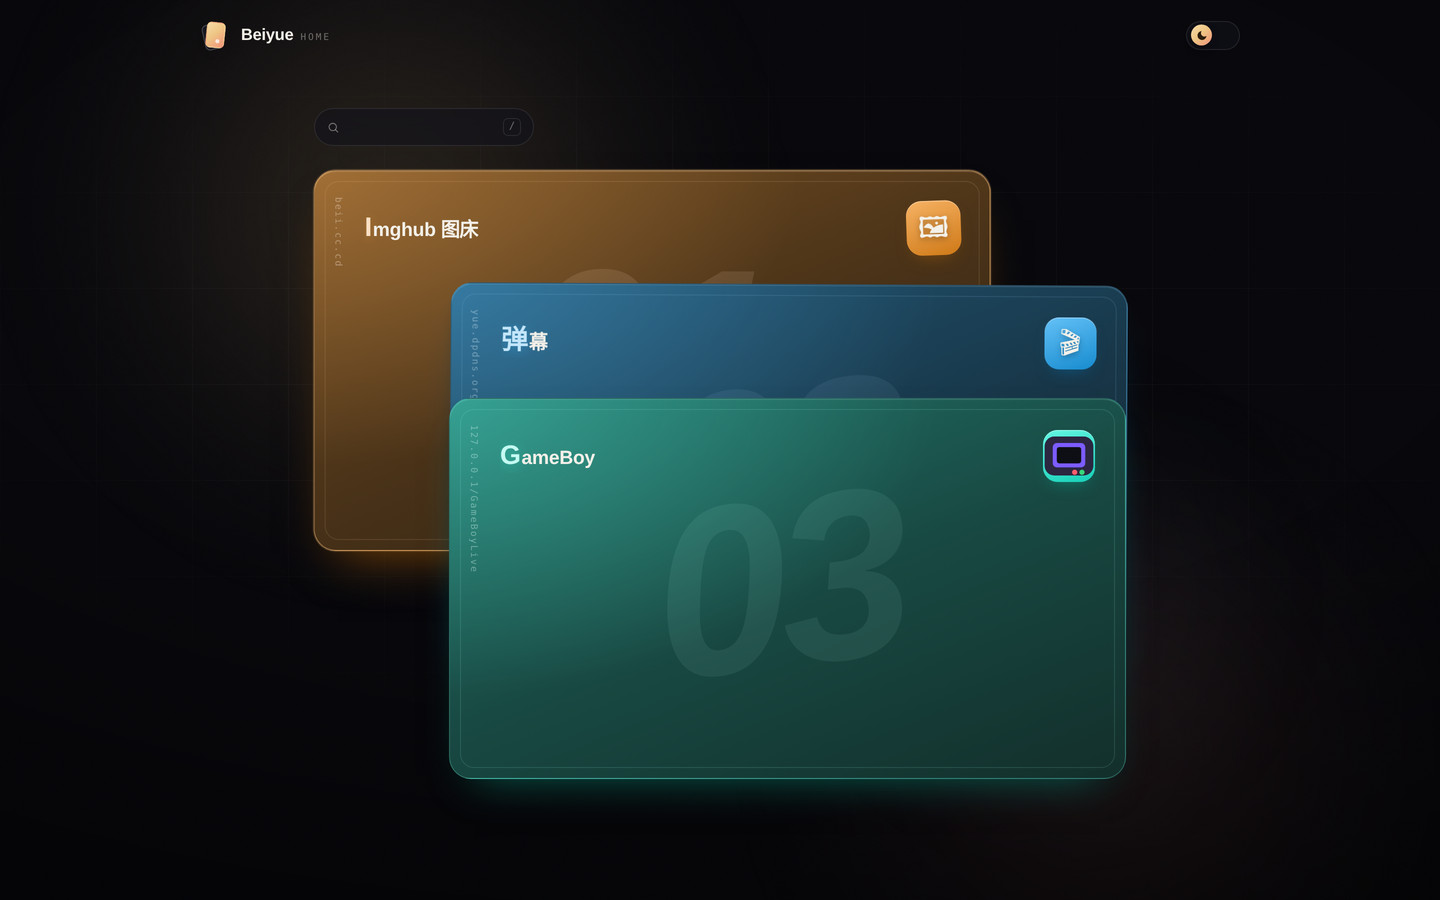
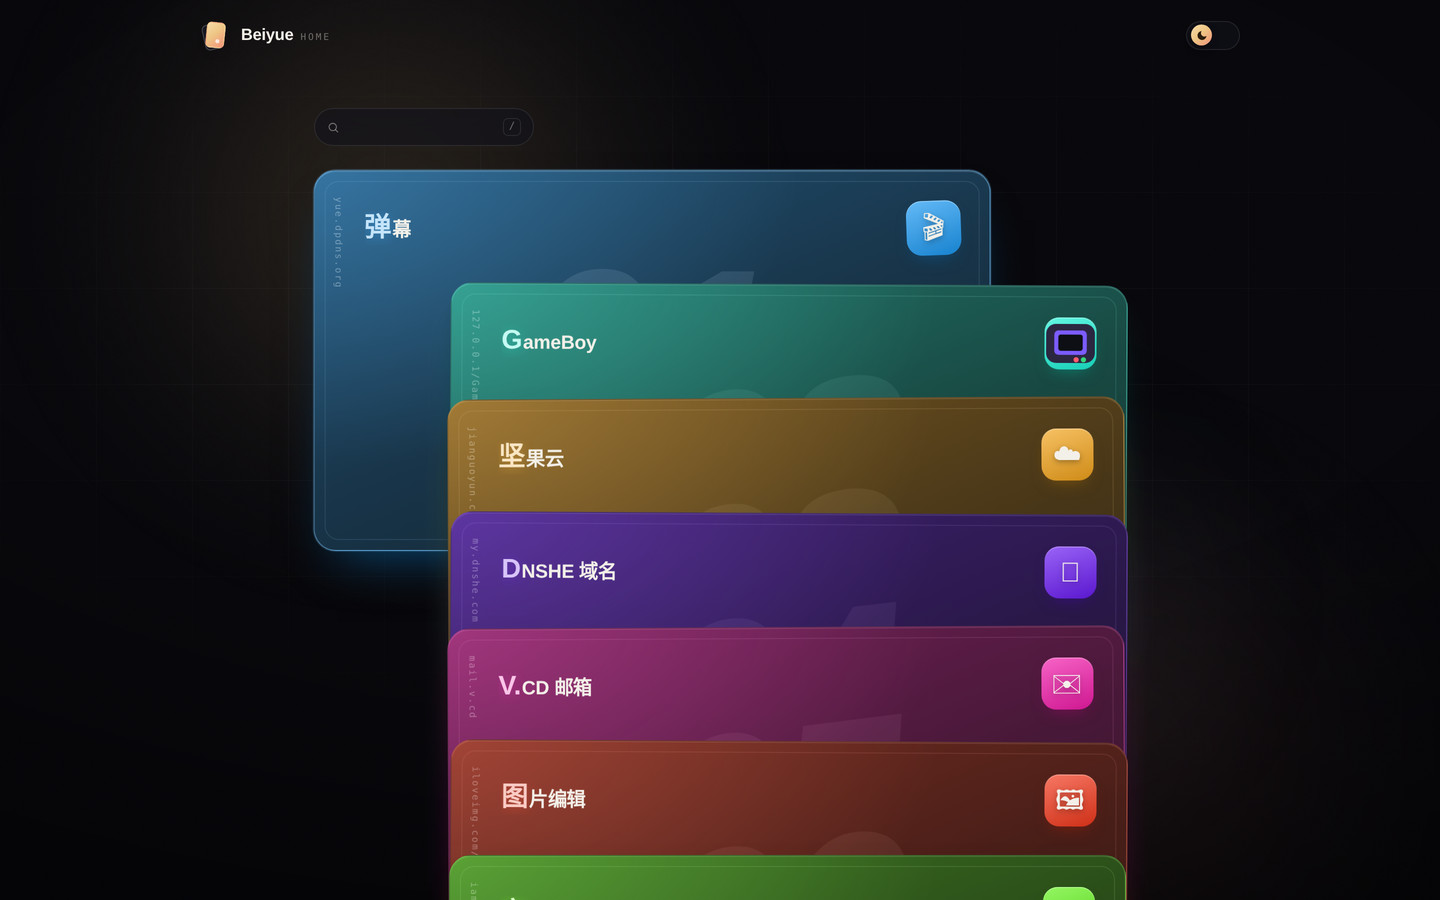
content: replace image host with five new site cards

diff --git a/src/data/site.js b/src/data/site.js
@@ -28,17 +28,11 @@ export const site = {
 /** 12 个主色相轮转：新增卡片自动取色，不需要手动配 */
 const HUES = [32, 202, 344, 164, 268, 12, 190, 96, 222, 316, 48, 148]
 
-/** 示例牌：把 url 换成你自己的项目地址即可 */
+/**
+ * 卡片清单：顺序就是牌堆里从上到下的顺序，最后一张会整张露出。
+ * hue 不写就按 HUES 顺序自动分配。
+ */
 const SAMPLES = [
-  {
-    id: 'imghub-image-host',
-    name: 'Imghub 图床',
-    en: 'Image Host',
-    tag: '工具',
-    desc: '拖进图片，马上拿到一个能直接用的链接。',
-    url: 'https://beii.cc.cd',
-    emoji: '🖼'
-  },
   {
     id: 'danmaku',
     name: '弹幕',
@@ -46,7 +40,8 @@ const SAMPLES = [
     tag: '趣味',
     desc: '打开就能发，屏幕上飘过的都是别人的碎碎念。',
     url: 'https://yue.dpdns.org',
-    emoji: '🎬'
+    emoji: '🎬',
+    hue: 205
   },
   {
     id: 'gameboy',
@@ -58,8 +53,57 @@ const SAMPLES = [
     emoji: '🕹',
     /* 用模拟器自己的图标，和参考站一致 */
     icon: `${import.meta.env.BASE_URL}icons/gameboy.svg`,
-    /* 与参考站 GameBoy 那张牌一致：青绿 */
     hue: 172
+  },
+  {
+    id: 'jianguoyun',
+    name: '坚果云',
+    en: 'Nutstore',
+    tag: '工具',
+    desc: '跨设备同步文件，改完自动上传。',
+    url: 'https://www.jianguoyun.com',
+    emoji: '☁',
+    hue: 38
+  },
+  {
+    id: 'dnshe',
+    name: 'DNSHE 域名',
+    en: 'DNSHE',
+    tag: '工具',
+    desc: '解析、转发、记录，一处管好域名。',
+    url: 'https://my.dnshe.com/',
+    emoji: '🌐',
+    hue: 262
+  },
+  {
+    id: 'vcd-mail',
+    name: 'V.CD 邮箱',
+    en: 'V.CD Mail',
+    tag: '工具',
+    desc: '挂在 v.cd 域名上的一个邮箱。',
+    url: 'https://mail.v.cd',
+    emoji: '✉',
+    hue: 320
+  },
+  {
+    id: 'iloveimg',
+    name: '图片编辑',
+    en: 'iLoveIMG',
+    tag: '工具',
+    desc: '裁剪、压缩、转格式，全在浏览器里完成。',
+    url: 'https://www.iloveimg.com/zh-cn',
+    emoji: '🖼',
+    hue: 8
+  },
+  {
+    id: 'fontchanger',
+    name: '字体转换',
+    en: 'Font Changer',
+    tag: '工具',
+    desc: '把字换成各种花体、符号体，复制就能用。',
+    url: 'https://www.iamwawa.cn/fontchanger.html',
+    emoji: 'Aa',
+    hue: 100
   }
 ]
 
